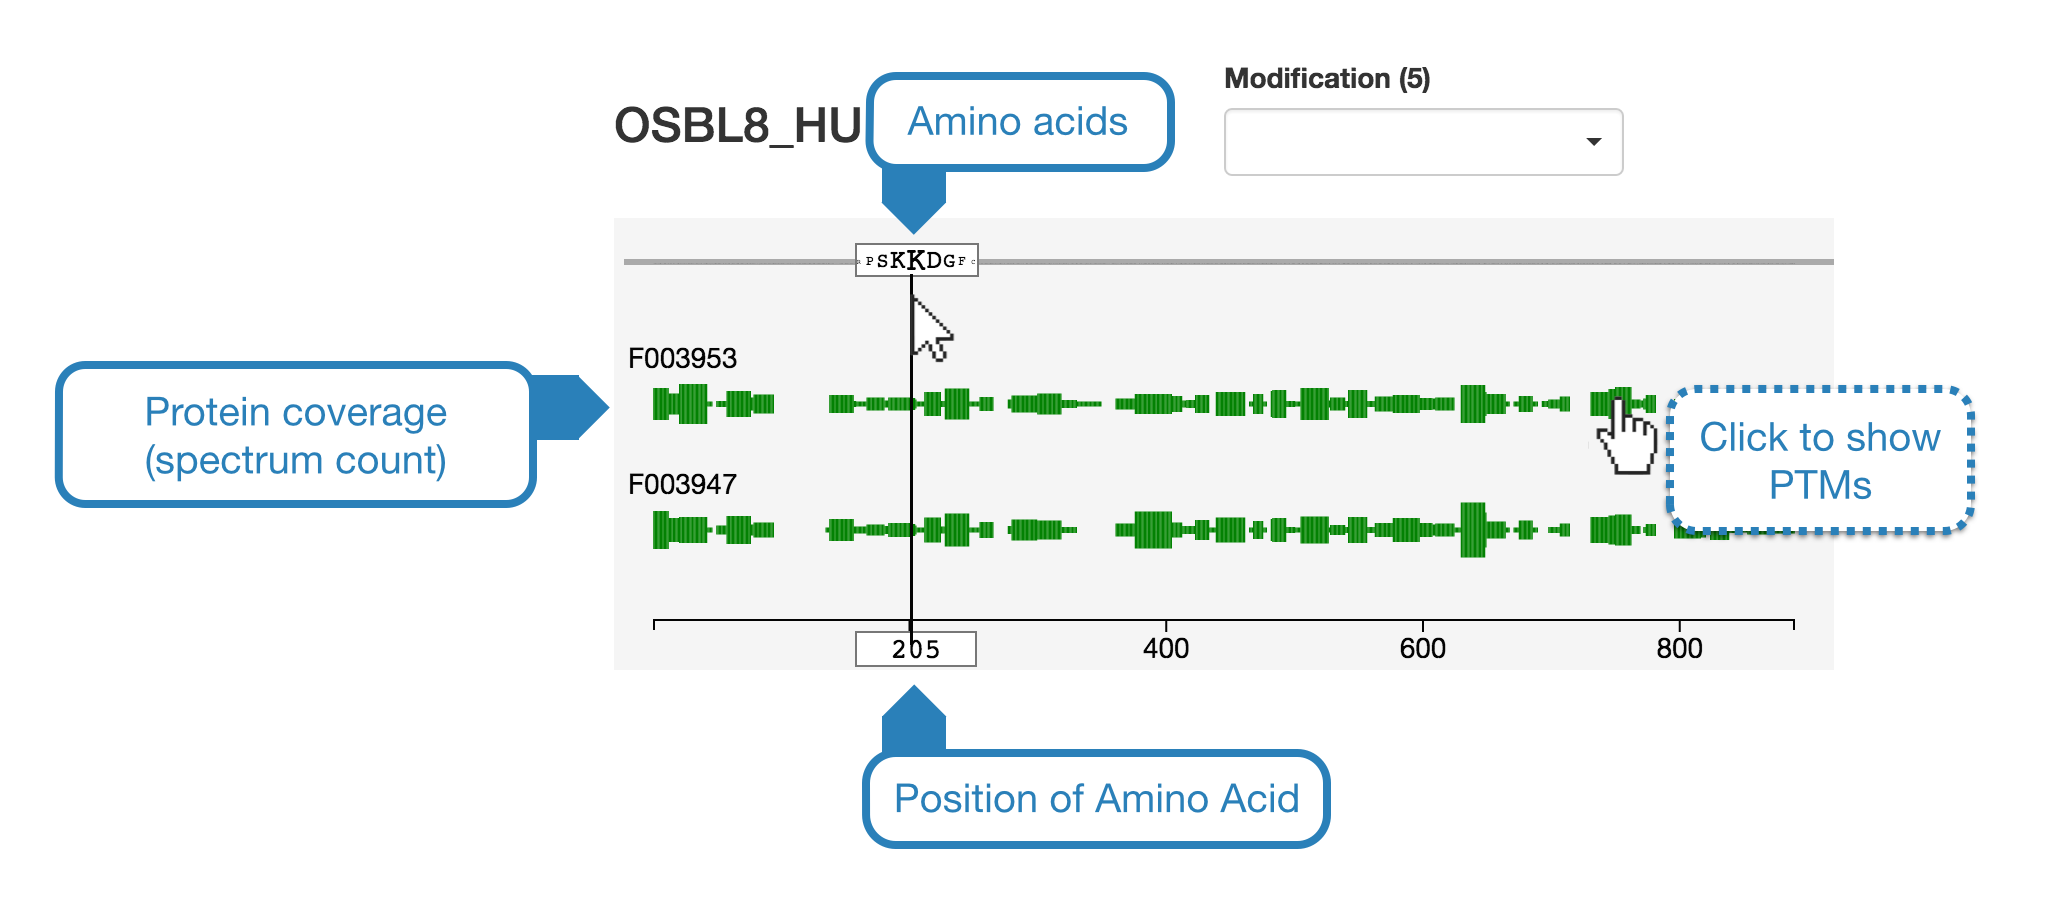
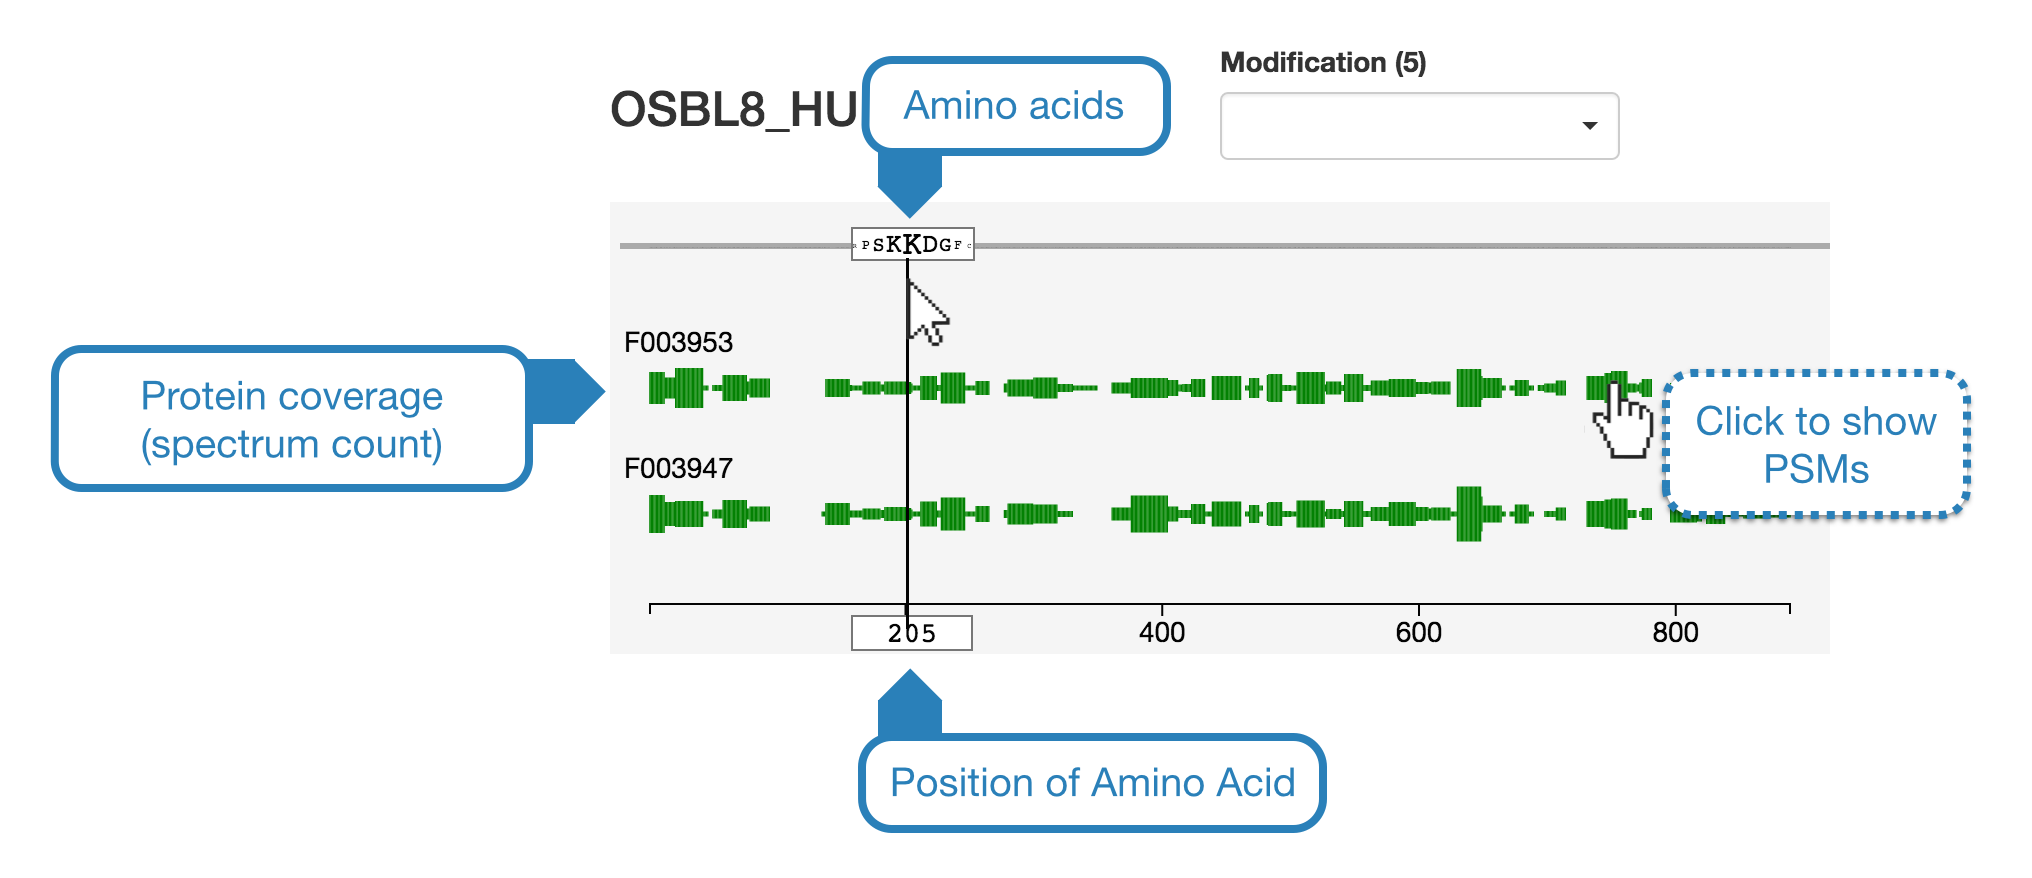
some corrections from Patrice

diff --git a/src/usage.rst b/src/usage.rst
@@ -55,7 +55,7 @@ Protein coverage view
    :width:  100%
    :alt: Protein coverages
 
-The coverages of the selected samples are shown as green bars. The thikness of the bars correspond to the spectral counts for each position. 
+The coverages of the selected proteins are shown as green bars. The thickness of the bars correspond to the spectral counts for each peptide. 
 
 You can get more information about the amino acid sequence by moving with the mouse pointer over the graph. With a mouse-click on the green bars you get the :ref:`psm_details` for the selected position. 
 
@@ -79,7 +79,7 @@ You can zoom into a region by seleting an area with your mouse (press left butto
 
 .. _psm_details:
 
-Peptide Sepctrum Match (PSM) details
+Peptide Spectrum Match (PSM) details
 ......................................
 
 .. figure:: /images/msviz_ptms.png
@@ -112,7 +112,7 @@ Visualization of spectra and XIC's
 
 By clicking on an PSM (gray lines) you open a view to the corresponding :ref:`annotated fragmentation spectrum <spectrum_details>` and :ref:`XIC's <xic_view>`. This allows to easily verify the quality of the match and quantify the corresponding MS1 signals. 
 
-1. :ref:`spectrum_details`: the annotated fragmentation spectrum helps you to verfiy the quality of the match.
+1. :ref:`spectrum_details`: the annotated fragmentation spectrum helps you to verify the quality of the match.
 
 2. :ref:`xic_view`: quantify the corresponding MS1 signal.
 
@@ -127,11 +127,11 @@ Annotated fragmentation spectrum
    :width:  100%
    :alt: spectrum details
 
-The spectrum shows annotated peaks with B-ions in blue and Y-ions in red. You can zoom into a region by selecting an area with your mous (left mouse button). 
+The spectrum shows annotated peaks with B-ions in blue and Y-ions in red. You can zoom into a region by selecting an area with your mouse (left button). 
 
-To compare all openend fragmentation spectra amongst each other, you can click on the **magnet button**. This sets the mass range of all other spectra to the one from which you clicked. The zoom can be reset by clicking on the **reload button** by double-clicking on any empty area of the graph.
+To compare all opened fragmentation spectra amongst each other, you can click on the **magnet button**. This sets the mass range of all other spectra to the one from which you clicked. The zoom can be reset by clicking on the **reload button** by double-clicking on any empty area of the graph.
 
-The **zoom button** opens the corresponding spectrum and XIC in an extra browser tab. You get a bigger view of both graphs. That is useful to look at details and to make prettier screenshots.
+The **zoom button** opens the corresponding spectrum and XIC in an extra browser tab. You get a bigger view of both graphs. That is useful for looking at details and to make prettier screenshots.
 
 .. _xic_view:
 
@@ -142,7 +142,7 @@ Extracted Ion Chromatogram (XIC)
    :width:  100%
    :alt: xic
 
-The XIC is generated by extracting the MS1 signal of the given Mass Over Charge (MOZ) ratio and a **tolerance of 10 ppm**. 
+The XIC is generated by extracting the MS1 signal of the given mass over charge (m/z) ratio and a **tolerance of 10 ppm**. 
 
 Again, to compare all XIC's amongst each other, you can click on the **magnet button**. This sets the retention-time range of all other XIC's to the one from which you clicked. The zoom can be reset by clicking on the **reload button** or by double-clicking on any empty area of the graph.
 
@@ -160,6 +160,8 @@ The quantitation table shows the maximum intensity for the region of interest (*
 
 Uploads
 -------------
+
+.. warning:: The upload and delete functions are disabled for the `public MsViz <http://msviz-public.vital-it.ch/>`_. 
 
 Upload results
 .................
